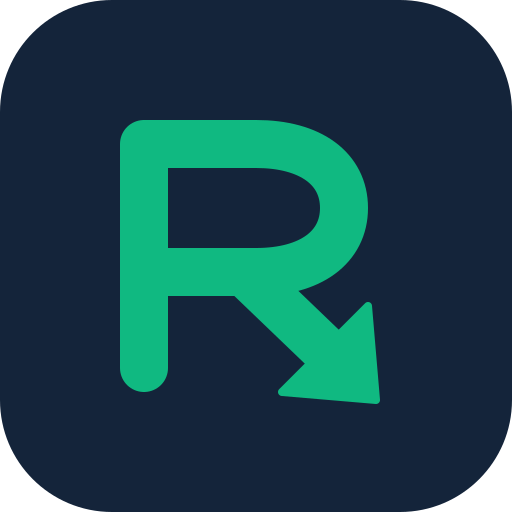
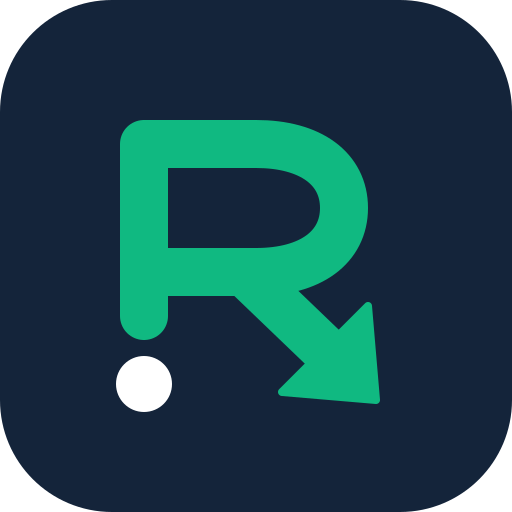
fix: desativar reset global e atualizar marca aprovada

Changed region(s): [[0.2188, 0.625, 0.3438, 0.8125]]

diff --git a/components/routewise-app.tsx b/components/routewise-app.tsx
@@ -1171,9 +1171,6 @@ function Dispatcher({
   const [selectedRouteId, setSelectedRouteId] = useState<string | null>(null);
   const [reportingRoute, setReportingRoute] = useState<DetailedRoute | null>(null);
   const [assigningRoute, setAssigningRoute] = useState<RouteData | null>(null);
-  const [resetModalOpen, setResetModalOpen] = useState(false);
-  const [resetFull, setResetFull] = useState(false);
-  const [resetBusy, setResetBusy] = useState(false);
 
   const load = useCallback(
     () =>
@@ -1259,16 +1256,6 @@ function Dispatcher({
             </h1>
           </div>
           <div style={{ display: "flex", alignItems: "center", gap: "12px" }}>
-            <button
-              type="button"
-              className="button-ghost"
-              style={{ display: "inline-flex", alignItems: "center", gap: "6px", fontSize: "12.5px", color: "var(--red)", borderColor: "rgba(239, 68, 68, 0.3)" }}
-              onClick={() => setResetModalOpen(true)}
-              title="Zerar rotas e dados de teste"
-            >
-              <Trash2 size={14} />
-              <span>Zerar Dados</span>
-            </button>
             <span className="live">
               <i /> Atualização automática
             </span>
@@ -1343,67 +1330,6 @@ function Dispatcher({
         />
       )}
 
-      {resetModalOpen && (
-        <Modal title="Zerar Banco de Dados e Histórico" onClose={() => setResetModalOpen(false)}>
-          <div className="form-grid">
-            <div className="modal-info-box" style={{ borderColor: "rgba(239, 68, 68, 0.3)", background: "rgba(239, 68, 68, 0.06)" }}>
-              <Trash2 size={22} style={{ color: "var(--red)" }} />
-              <div>
-                <b>Atenção: Esta ação é irreversível!</b>
-                <p style={{ marginTop: "4px", fontSize: "12.5px" }}>
-                  Isto apagará todas as rotas (histórico, paradas, fotos e comprovantes), telemetria GPS e leituras de odômetro salvas.
-                </p>
-              </div>
-            </div>
-
-            <label className="checkbox-line" style={{ marginTop: "6px" }}>
-              <input
-                type="checkbox"
-                checked={resetFull}
-                onChange={(e) => setResetFull(e.target.checked)}
-              />
-              <span>Zerar também veículos e motoristas de teste cadastrados</span>
-            </label>
-
-            <div style={{ display: "flex", gap: "10px", marginTop: "14px" }}>
-              <button
-                type="button"
-                className="button-ghost"
-                style={{ flex: 1 }}
-                onClick={() => setResetModalOpen(false)}
-                disabled={resetBusy}
-              >
-                Cancelar
-              </button>
-              <button
-                type="button"
-                className="button primary"
-                style={{ flex: 1, background: "var(--red)", borderColor: "var(--red)" }}
-                disabled={resetBusy}
-                onClick={async () => {
-                  setResetBusy(true);
-                  try {
-                    await api("/api/admin/reset-data", {
-                      method: "POST",
-                      body: JSON.stringify({ pin: "2468", fullReset: resetFull }),
-                    });
-                    setResetModalOpen(false);
-                    setMessage("Banco de dados zerado com sucesso!");
-                    load();
-                    setTimeout(() => setMessage(""), 5000);
-                  } catch (err) {
-                    alert((err as Error).message);
-                  } finally {
-                    setResetBusy(false);
-                  }
-                }}
-              >
-                {resetBusy ? "Zerando dados…" : "Sim, Zerar Tudo"}
-              </button>
-            </div>
-          </div>
-        </Modal>
-      )}
     </div>
   );
 }

diff --git a/app/api/[...path]/route.ts b/app/api/[...path]/route.ts
@@ -454,42 +454,7 @@ export async function POST(req: NextRequest, ctx: Ctx) {
     }
 
     if (p[0] === "admin" && p[1] === "reset-data") {
-      const pin = String(data.pin || "");
-      const s = await getSession(requestedRole(req));
-      const configured = process.env.DISPATCHER_PIN_HASH;
-      const validPin = configured
-        ? await compare(pin, configured)
-        : (pin === (process.env.DISPATCHER_PIN || "2468") || pin === "2468");
-      const isAuthorized = (s && s.role === "dispatcher") || validPin;
-      if (!isAuthorized) {
-        return json({ error: "Acesso não autorizado para reset" }, 403);
-      }
-
-      const client = await db.connect();
-      try {
-        await client.query("BEGIN");
-        await client.query("DELETE FROM location_points");
-        await client.query("DELETE FROM delivery_events");
-        await client.query("DELETE FROM odometer_readings");
-        await client.query("DELETE FROM sync_operations");
-        await client.query("DELETE FROM route_stops");
-        await client.query("DELETE FROM routes");
-        await client.query("DELETE FROM upload_objects");
-        await client.query("DELETE FROM audit_log");
-        if (data.fullReset) {
-          await client.query("DELETE FROM vehicles");
-          await client.query("DELETE FROM drivers");
-          await client.query("DELETE FROM dispatchers");
-          await client.query("DELETE FROM companies WHERE code != 'LEGADO'");
-        }
-        await client.query("COMMIT");
-        return json({ ok: true, message: "Dados zerados com sucesso!" });
-      } catch (err) {
-        await client.query("ROLLBACK");
-        throw err;
-      } finally {
-        client.release();
-      }
+      return json({ error: "Operação de reset desativada" }, 403);
     }
 
     const session = await getSession(requestedRole(req));
